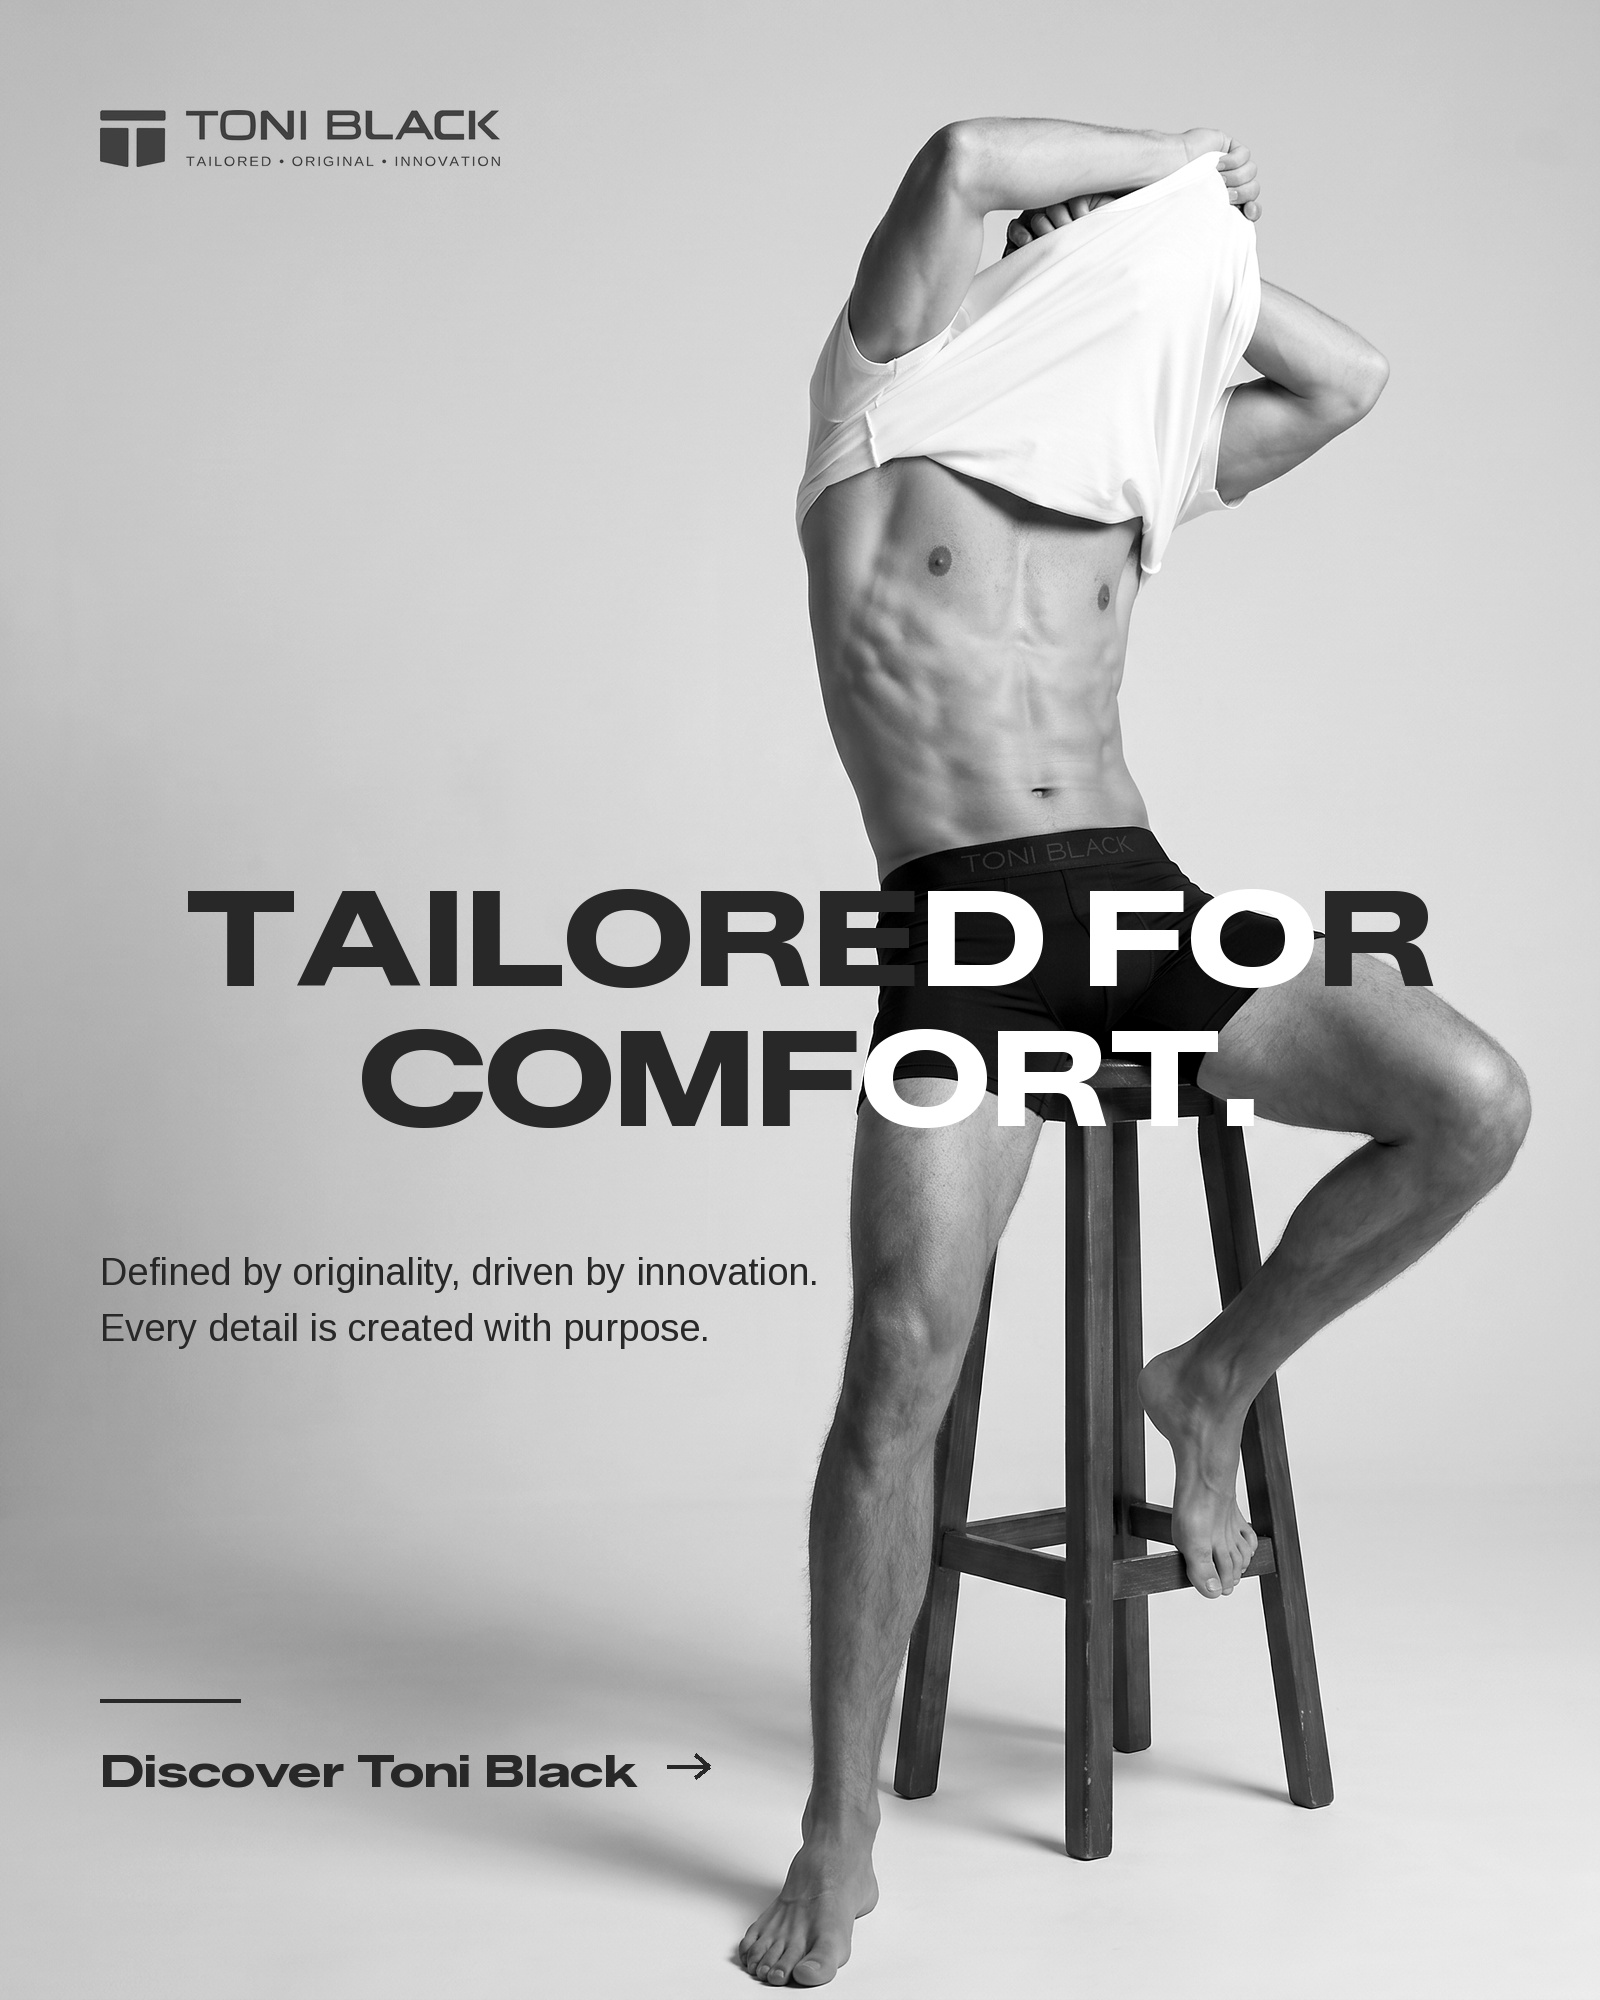
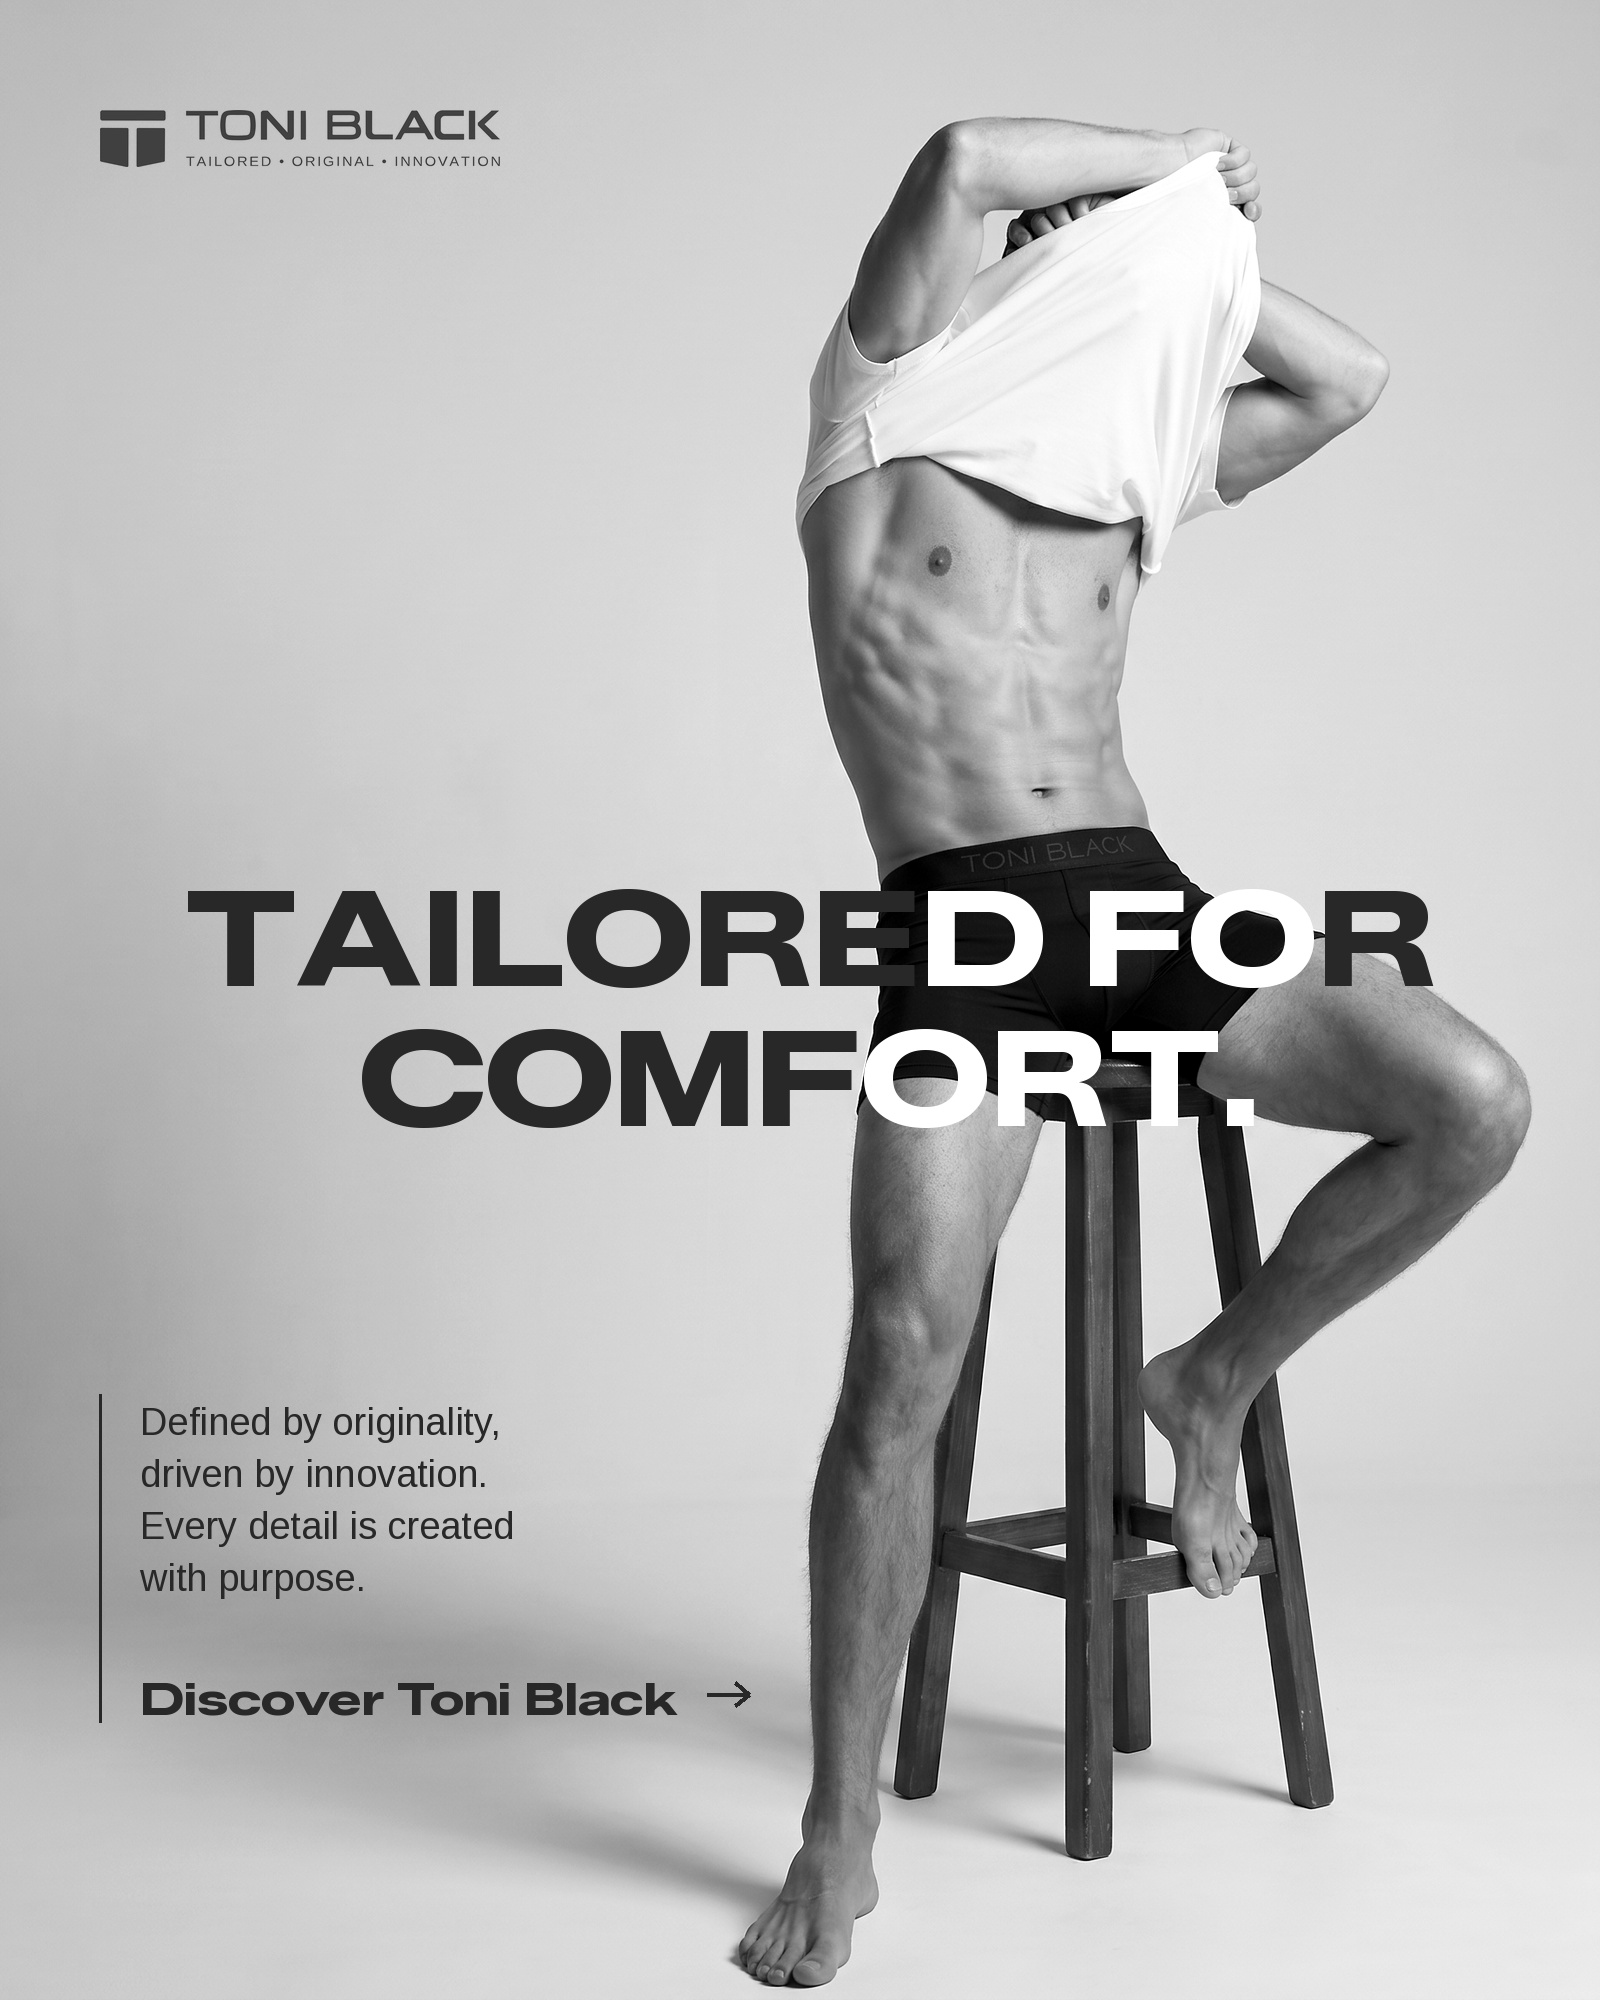
Set the brand story supporting copy as one measured column
The two lines and the call to action were floating apart with an unexplained
gap between them, and neither was anchored to anything.

They are now a single left-anchored block under one hairline: four short lines
of even measure, then the call to action, reading as one unit. Breaks follow
the sentences rather than falling wherever the measure happens to run out.

The backdrop stays clean out to x=760 before the model's leg comes in, and the
column now asserts it fits inside that, so copy edits cannot quietly push the
type onto ground where solid black stops holding.

Claude-Session: https://claude.ai/code/session_01BFDP3Ndj2eT8f8PUhw5miP

Changed region(s): [[0.0625, 0.62, 0.5, 0.806], [0.0625, 0.837, 0.4375, 0.899]]

diff --git a/tools/build_banners.py b/tools/build_banners.py
@@ -158,14 +158,31 @@ def banner1():
     # Supporting copy sits in the clean left column instead. Centred under the
     # headline it would cross the model's legs and the stool, where the ground is
     # mid-grey and neither black nor white type holds up.
-    y = 1250
-    for line in ["Defined by originality, driven by innovation.",
-                 "Every detail is created with purpose."]:
-        d.text((M, y), line, font=sf, fill=BLACK); y += 56
+    #
+    # Set as one narrow measured column under a single hairline: four short lines
+    # of even length plus the call to action read as one block, where two loose
+    # lines and a separate CTA floated apart with an unexplained gap between them.
+    RULE_X, IND, TOP = M, 40, 1400
+    body = ["Defined by originality,", "driven by innovation.",
+            "Every detail is created", "with purpose."]
+    y = TOP
+    for line in body:
+        d.text((RULE_X + IND, y), line, font=sf, fill=BLACK); y += 52
 
-    d.line([(M, H - 300), (M + 140, H - 300)], fill=BLACK, width=4)
-    d.text((M, H - 258), "Discover Toni Black", font=cf, fill=BLACK)
-    arrow(d, M + d.textlength("Discover Toni Black", font=cf) + 30, H - 234, 42, BLACK, 4)
+    cta_y = y + 62
+    d.text((RULE_X + IND, cta_y), "Discover Toni Black", font=cf, fill=BLACK)
+    arrow(d, RULE_X + IND + d.textlength("Discover Toni Black", font=cf) + 30,
+          cta_y + 24, 42, BLACK, 4)
+    d.line([(RULE_X, TOP - 6), (RULE_X, cta_y + 52)], fill=BLACK, width=3)
+
+    # The clean part of the backdrop runs to x=760; past that the model's leg
+    # comes in and solid black type stops holding. Fail loudly rather than ship
+    # copy that has quietly outgrown the column.
+    widest = max([d.textlength(l, font=sf) for l in body]
+                 + [d.textlength("Discover Toni Black", font=cf) + 72])
+    if RULE_X + IND + widest > 760:
+        raise SystemExit(f"brand story column runs to "
+                         f"x={RULE_X + IND + widest:.0f}, past the clean zone at 760")
 
     lg = logo("logo-horizontal-black", 400)     # top-left sits on plain backdrop
     c.paste(lg, (M, 110), lg)
